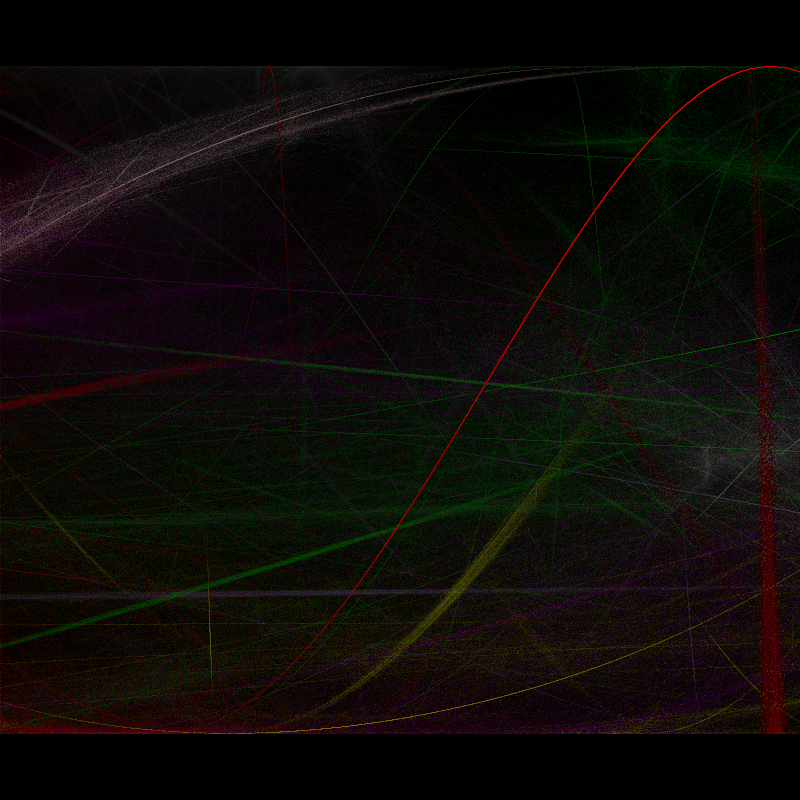
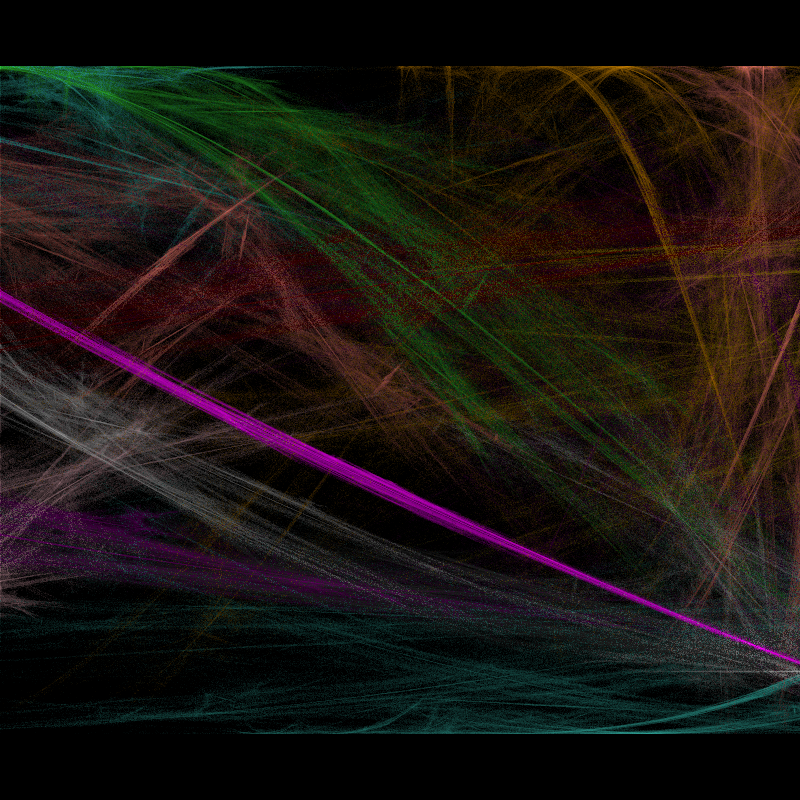
feat: Реализован класс отчетности

diff --git a/src/main/java/backend/academy/flame/core/FractalCalculator.java b/src/main/java/backend/academy/flame/core/FractalCalculator.java
@@ -1,5 +1,6 @@
 package backend.academy.flame.core;
 
+import backend.academy.flame.cli.ReportGenerator;
 import backend.academy.flame.core.factory.DiskTransformFactory;
 import backend.academy.flame.core.factory.HeartTransformFactory;
 import backend.academy.flame.core.factory.PolarTransformationFactory;
@@ -18,6 +19,8 @@ import lombok.Setter;
 @Getter
 @Setter
 public abstract class FractalCalculator {
+    private ReportGenerator reportGenerator = new ReportGenerator(System.out);
+
     protected double XMAX;
     protected double XMIN;
     protected double YMAX = 1.0;
@@ -40,7 +43,22 @@ public abstract class FractalCalculator {
         }
     }
 
-    public abstract FractalImage render(Configs configs);
+    public abstract void render(Configs configs);
+
+    public FractalImage process(Configs configs){
+        chooseTransformation(configs.transform());
+        init(configs.width(), configs.height());
+
+        long startTime = System.currentTimeMillis();
+
+        render(configs);
+
+        correction(configs.width(), configs.height());
+
+        long endTime = System.currentTimeMillis();
+        reportGenerator.generateReport(configs, endTime - startTime);
+        return new FractalImage(configs, pixels, configs.width(), configs.height());
+    }
 
     protected Point rotate(Point point, double angle, int width, int height) {
         double centerX = width / 2.0;

diff --git a/src/main/java/backend/academy/flame/core/FractalCalculatorSingleThread.java b/src/main/java/backend/academy/flame/core/FractalCalculatorSingleThread.java
@@ -1,7 +1,6 @@
 package backend.academy.flame.core;
 
 import backend.academy.flame.model.Configs;
-import backend.academy.flame.model.FractalImage;
 import backend.academy.flame.model.Point;
 import java.util.concurrent.ThreadLocalRandom;
 import lombok.Getter;
@@ -14,10 +13,7 @@ import lombok.extern.slf4j.Slf4j;
 public class FractalCalculatorSingleThread extends FractalCalculator {
     private final ThreadLocalRandom random = ThreadLocalRandom.current();
 
-    public FractalImage render(Configs configs) {
-        chooseTransformation(configs.transform());
-        init(configs.width(), configs.height());
-
+    public void render(Configs configs) {
         var newX = random.nextDouble(XMIN, XMAX);
         var newY = random.nextDouble(YMIN, YMAX);
 
@@ -62,7 +58,5 @@ public class FractalCalculatorSingleThread extends FractalCalculator {
             newX = x;
             newY = y;
         }
-        correction(configs.width(), configs.height());
-        return new FractalImage(configs, pixels, configs.width(), configs.height());
     }
 }

diff --git a/src/main/java/backend/academy/flame/core/MultiThreadCalculator.java b/src/main/java/backend/academy/flame/core/MultiThreadCalculator.java
@@ -1,7 +1,6 @@
 package backend.academy.flame.core;
 
 import backend.academy.flame.model.Configs;
-import backend.academy.flame.model.FractalImage;
 import backend.academy.flame.model.Point;
 import java.util.ArrayList;
 import java.util.List;
@@ -26,10 +25,7 @@ public class MultiThreadCalculator extends FractalCalculator {
     }
 
     @Override
-    public FractalImage render(Configs configs) {
-        chooseTransformation(configs.transform());
-        init(configs.width(), configs.height());
-
+    public void render(Configs configs) {
         List<Future<?>> tasks = new ArrayList<>();
         var coefficients = coefficientGenerator.generateCoefficientsCompression(configs.affineCount());
 
@@ -92,9 +88,6 @@ public class MultiThreadCalculator extends FractalCalculator {
             }
         }
 
-        correction(configs.width(), configs.height());
         executor.shutdown();
-
-        return new FractalImage(configs, pixels, configs.width(), configs.height());
     }
 }

diff --git a/src/main/java/backend/academy/flame/FractalFlame.java b/src/main/java/backend/academy/flame/FractalFlame.java
@@ -21,14 +21,13 @@ public class FractalFlame {
             .iterationCount(15_000_000)
             .affineCount(15)
             .symmetry(3)
-            .transform(TransformationFunction.SINUS  )
+            .transform(TransformationFunction.DISK)
             .threadsCount(4)
             .format(ImageFormat.PNG)
             .build();
-//        configs = communicator.communicate();
         var calculator = FractalCalculator.chooseRealisation(configs.threadsCount());
         System.out.println(configs);
-        var imageFractal = calculator.render(configs);
+        var imageFractal = calculator.process(configs);
         manager.imageProcessor(imageFractal);
     }
 }

diff --git a/src/main/java/backend/academy/flame/cli/ReportGenerator.java b/src/main/java/backend/academy/flame/cli/ReportGenerator.java
@@ -2,9 +2,10 @@ package backend.academy.flame.cli;
 
 import backend.academy.flame.model.Configs;
 import java.io.PrintStream;
+import java.time.Duration;
 
 public class ReportGenerator {
-    private final PrintStream out;
+    private PrintStream out;
 
     public ReportGenerator(PrintStream out) {
         this.out = out;
